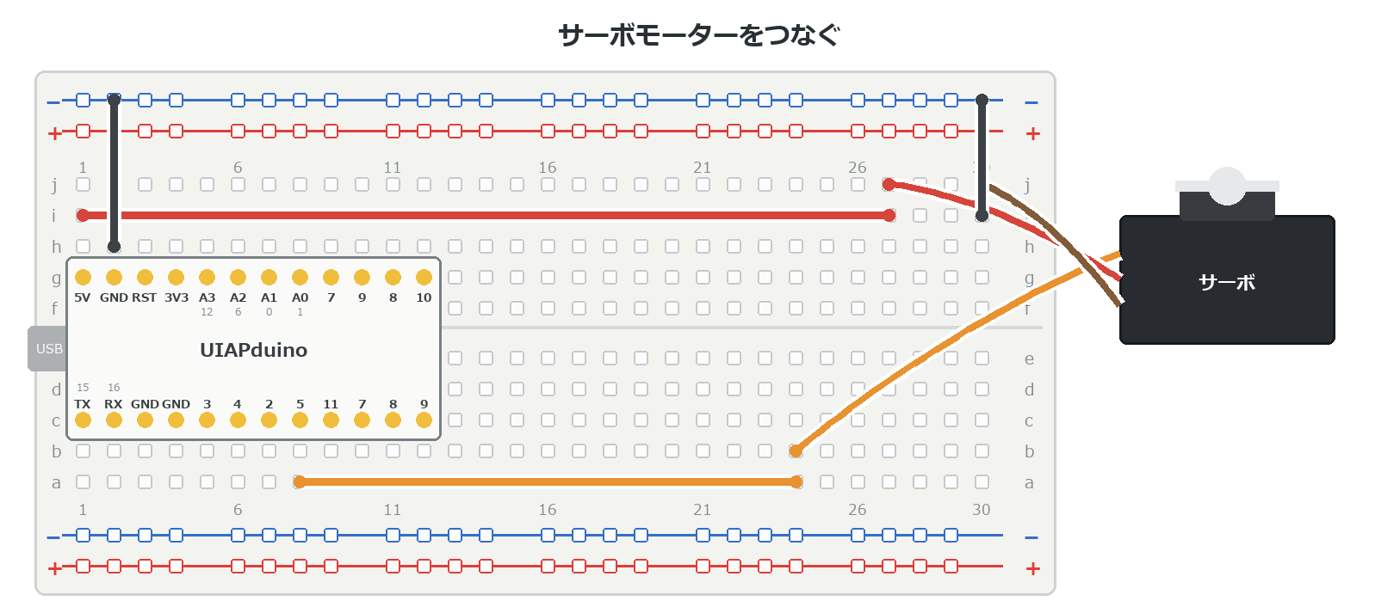
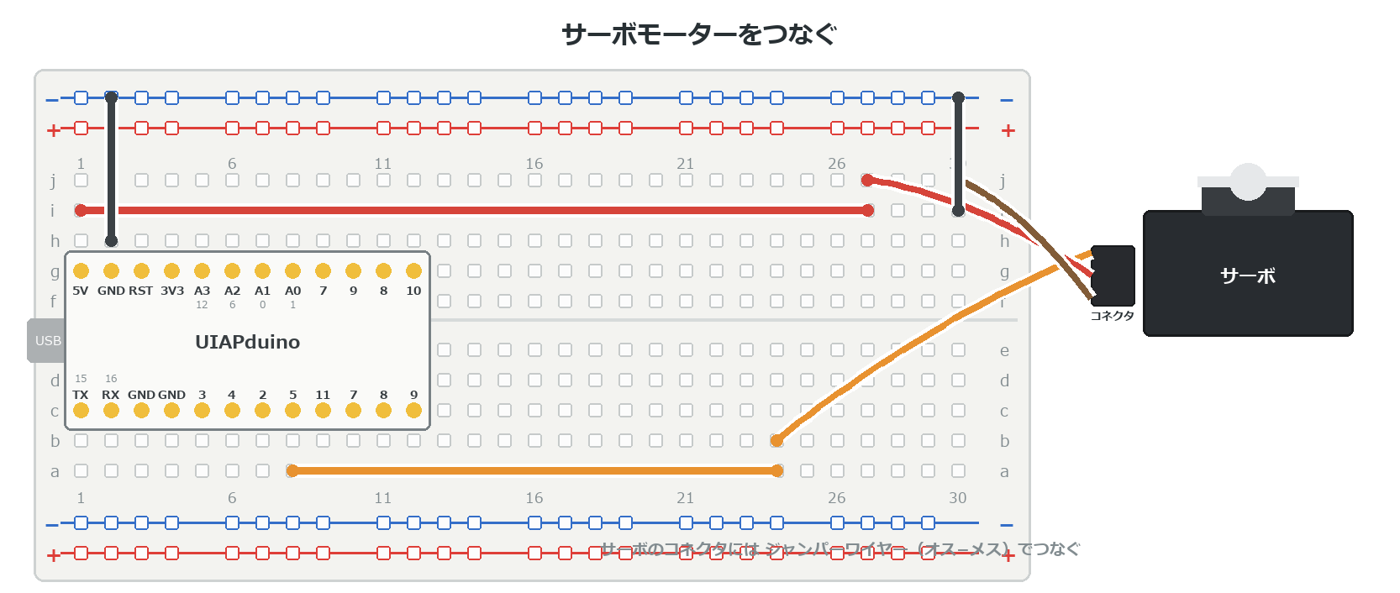
e5 に DRV8835 の配線図を追加し、端子の並びをデータシートで確認
いただいた基板の写真とデータシート（AE-DRV8835-S_20210526.pdf）を照合した。

> ピン番号は基板左上を起点に反時計回りです
> 1 VM / 2 AOUT1 / 3 AOUT2 / 4 BOUT1 / 5 BOUT2 / 6 GND
> 7 BIN2 / 8 BIN1 / 9 AIN2 / 10 AIN1 / 11 MODE / 12 VCC

→ 向かい合う組は VM↔VCC、AOUT1↔MODE、AOUT2↔AIN1、BOUT1↔AIN2、
  BOUT2↔BIN1、GND↔BIN2。写真の読み取りと一致した。

300mil 幅なので UIAPduino と同じく溝をまたいで e行・f行に6列ぶん装着する。
制御がわ（VCC・MODE・AIN1・AIN2）を上に向けて、3V3・A2・GND と
同じ半分にそろえた。5番ピンだけ下がわにしかないため、16列で溝をまたいでいる。

データシートで教材の記述も検証:
- MODE=0 が IN/IN モード → 教材の「MODE → GND」は正しい
- IN/IN の真理値表（0,0=空転／1,0=正転／0,1=逆転／1,1=ブレーキ）が
  e5 の「2本の線で向きが決まる」の記述と一致

e4 のサーボは、実物どおり ジャンパーワイヤー（オス−メス）で
コネクタにつなぐ形に描きかえた。

diff --git a/docs/e5_motor/index.html b/docs/e5_motor/index.html
@@ -103,7 +103,7 @@
 
 :::
 
-> 📷 モジュールの端子名を書きこんだ写真
+![VCC→3V3、MODE→GND、AIN1→5番、AIN2→6番](image/index/bb_drv8835.png)
 
 ---
 

diff --git a/tools/bb.py b/tools/bb.py
@@ -280,7 +280,41 @@ def servo(d, x, y, w=250, h=150):
     d.ellipse([x + w / 2 - 22, y - 56, x + w / 2 + 22, y - 12], fill=(230, 232, 234))
     d.rectangle([x + w / 2 - 60, y - 40, x + w / 2 + 60, y - 28], fill=(230, 232, 234))
     center(d, x + w / 2, y + h / 2 - 12, "サーボ", bold(22), WHITE)
-    return [(x, y + h * (0.3 + 0.2 * i)) for i in range(3)]
+    d.rounded_rectangle([x - 62, y + h * 0.28, x - 10, y + h * 0.76], radius=5,
+                        fill=(40, 42, 46), outline=(24, 26, 28), width=2)
+    center(d, x - 36, y + h * 0.78, "コネクタ", bold(13), INK)
+    return [(x - 62, y + h * (0.34 + 0.18 * i)) for i in range(3)]
+
+def dip(d, col, top_pins, bot_pins, title="DRV8835", fill=(28, 110, 70)):
+    """300mil の DIP モジュール。溝をまたいで f行・e行 に入る（6列ぶん）"""
+    n = len(top_pins)
+    x1, x2 = cx(col) - 20, cx(col + n - 1) + 20
+    y1, y2 = cy("f") - 24, cy("e") + 24
+    d.rounded_rectangle([x1, y1, x2, y2], radius=8, fill=fill,
+                        outline=(16, 80, 50), width=3)
+    center(d, (x1 + x2) / 2, (y1 + y2) / 2 - 12, title, bold(20), WHITE)
+    for i, lab in enumerate(top_pins):
+        x = cx(col + i)
+        d.ellipse([x - 9, cy("f") - 9, x + 9, cy("f") + 9], fill=GOLD)
+        d.line([x, cy("f") - 24, x, cy("g") + 14], fill=(150, 154, 158), width=2)
+        center(d, x, cy("g") - 6, lab, bold(11), (20, 90, 58))
+    for i, lab in enumerate(bot_pins):
+        x = cx(col + i)
+        d.ellipse([x - 9, cy("e") - 9, x + 9, cy("e") + 9], fill=GOLD)
+        d.line([x, cy("e") + 24, x, cy("d") - 12], fill=(150, 154, 158), width=2)
+        center(d, x, cy("d") - 6, lab, bold(11), (20, 90, 58))
+
+def motor(d, x, y, r=76):
+    d.ellipse([x - r, y - r, x + r, y + r], fill=(150, 154, 158),
+              outline=(110, 114, 118), width=3)
+    d.ellipse([x - 26, y - 26, x + 26, y + 26], fill=(90, 94, 98))
+    center(d, x, y + r + 12, "モーター", bold(19), INK)
+
+def battery(d, x, y, w=210, h=110):
+    d.rounded_rectangle([x, y, x + w, y + h], radius=8, fill=(232, 120, 40),
+                        outline=(180, 88, 24), width=3)
+    center(d, x + w / 2, y + h / 2 - 12, "電池 6V", bold(21), WHITE)
+    return (x, y + h * 0.32), (x, y + h * 0.68)
 
 def new(title, extra_w=0):
     im, d = canvas(W + extra_w, H)

diff --git a/content/e5_motor/index.md b/content/e5_motor/index.md
@@ -90,7 +90,7 @@ wip: 写真まち
 
 :::
 
-> 📷 モジュールの端子名を書きこんだ写真
+![VCC→3V3、MODE→GND、AIN1→5番、AIN2→6番](image/index/bb_drv8835.png)
 
 ---
 
